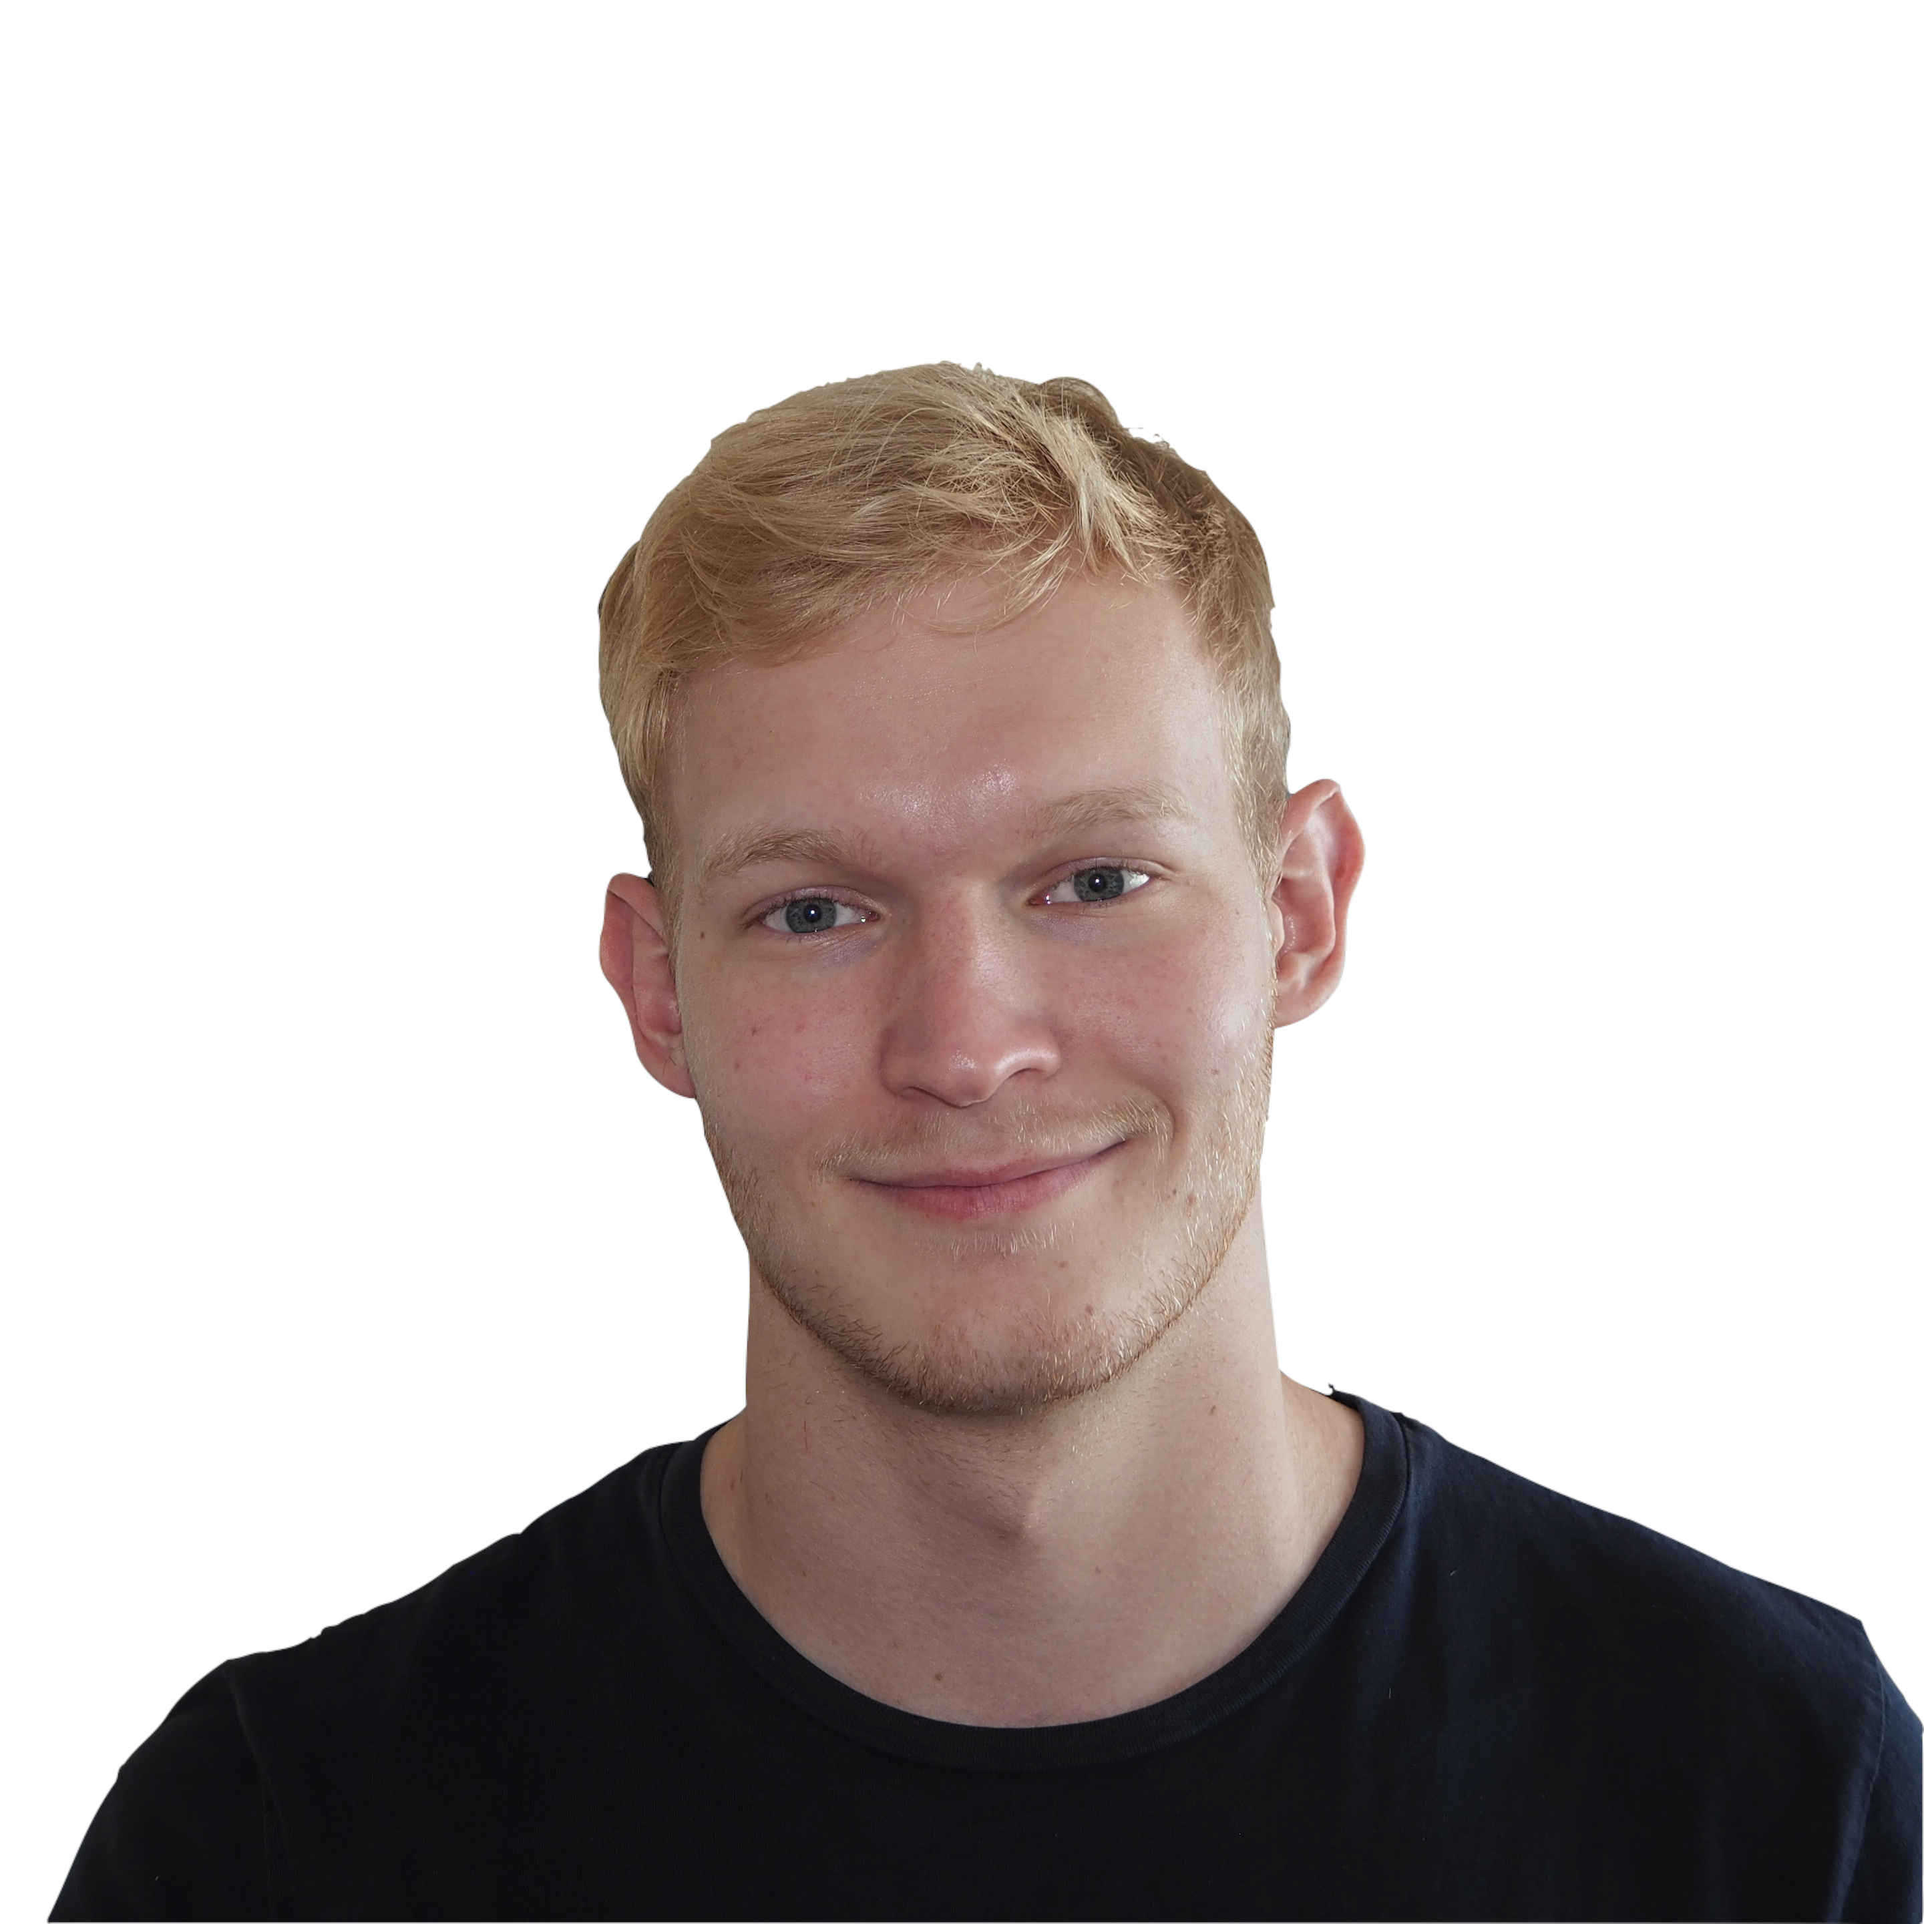
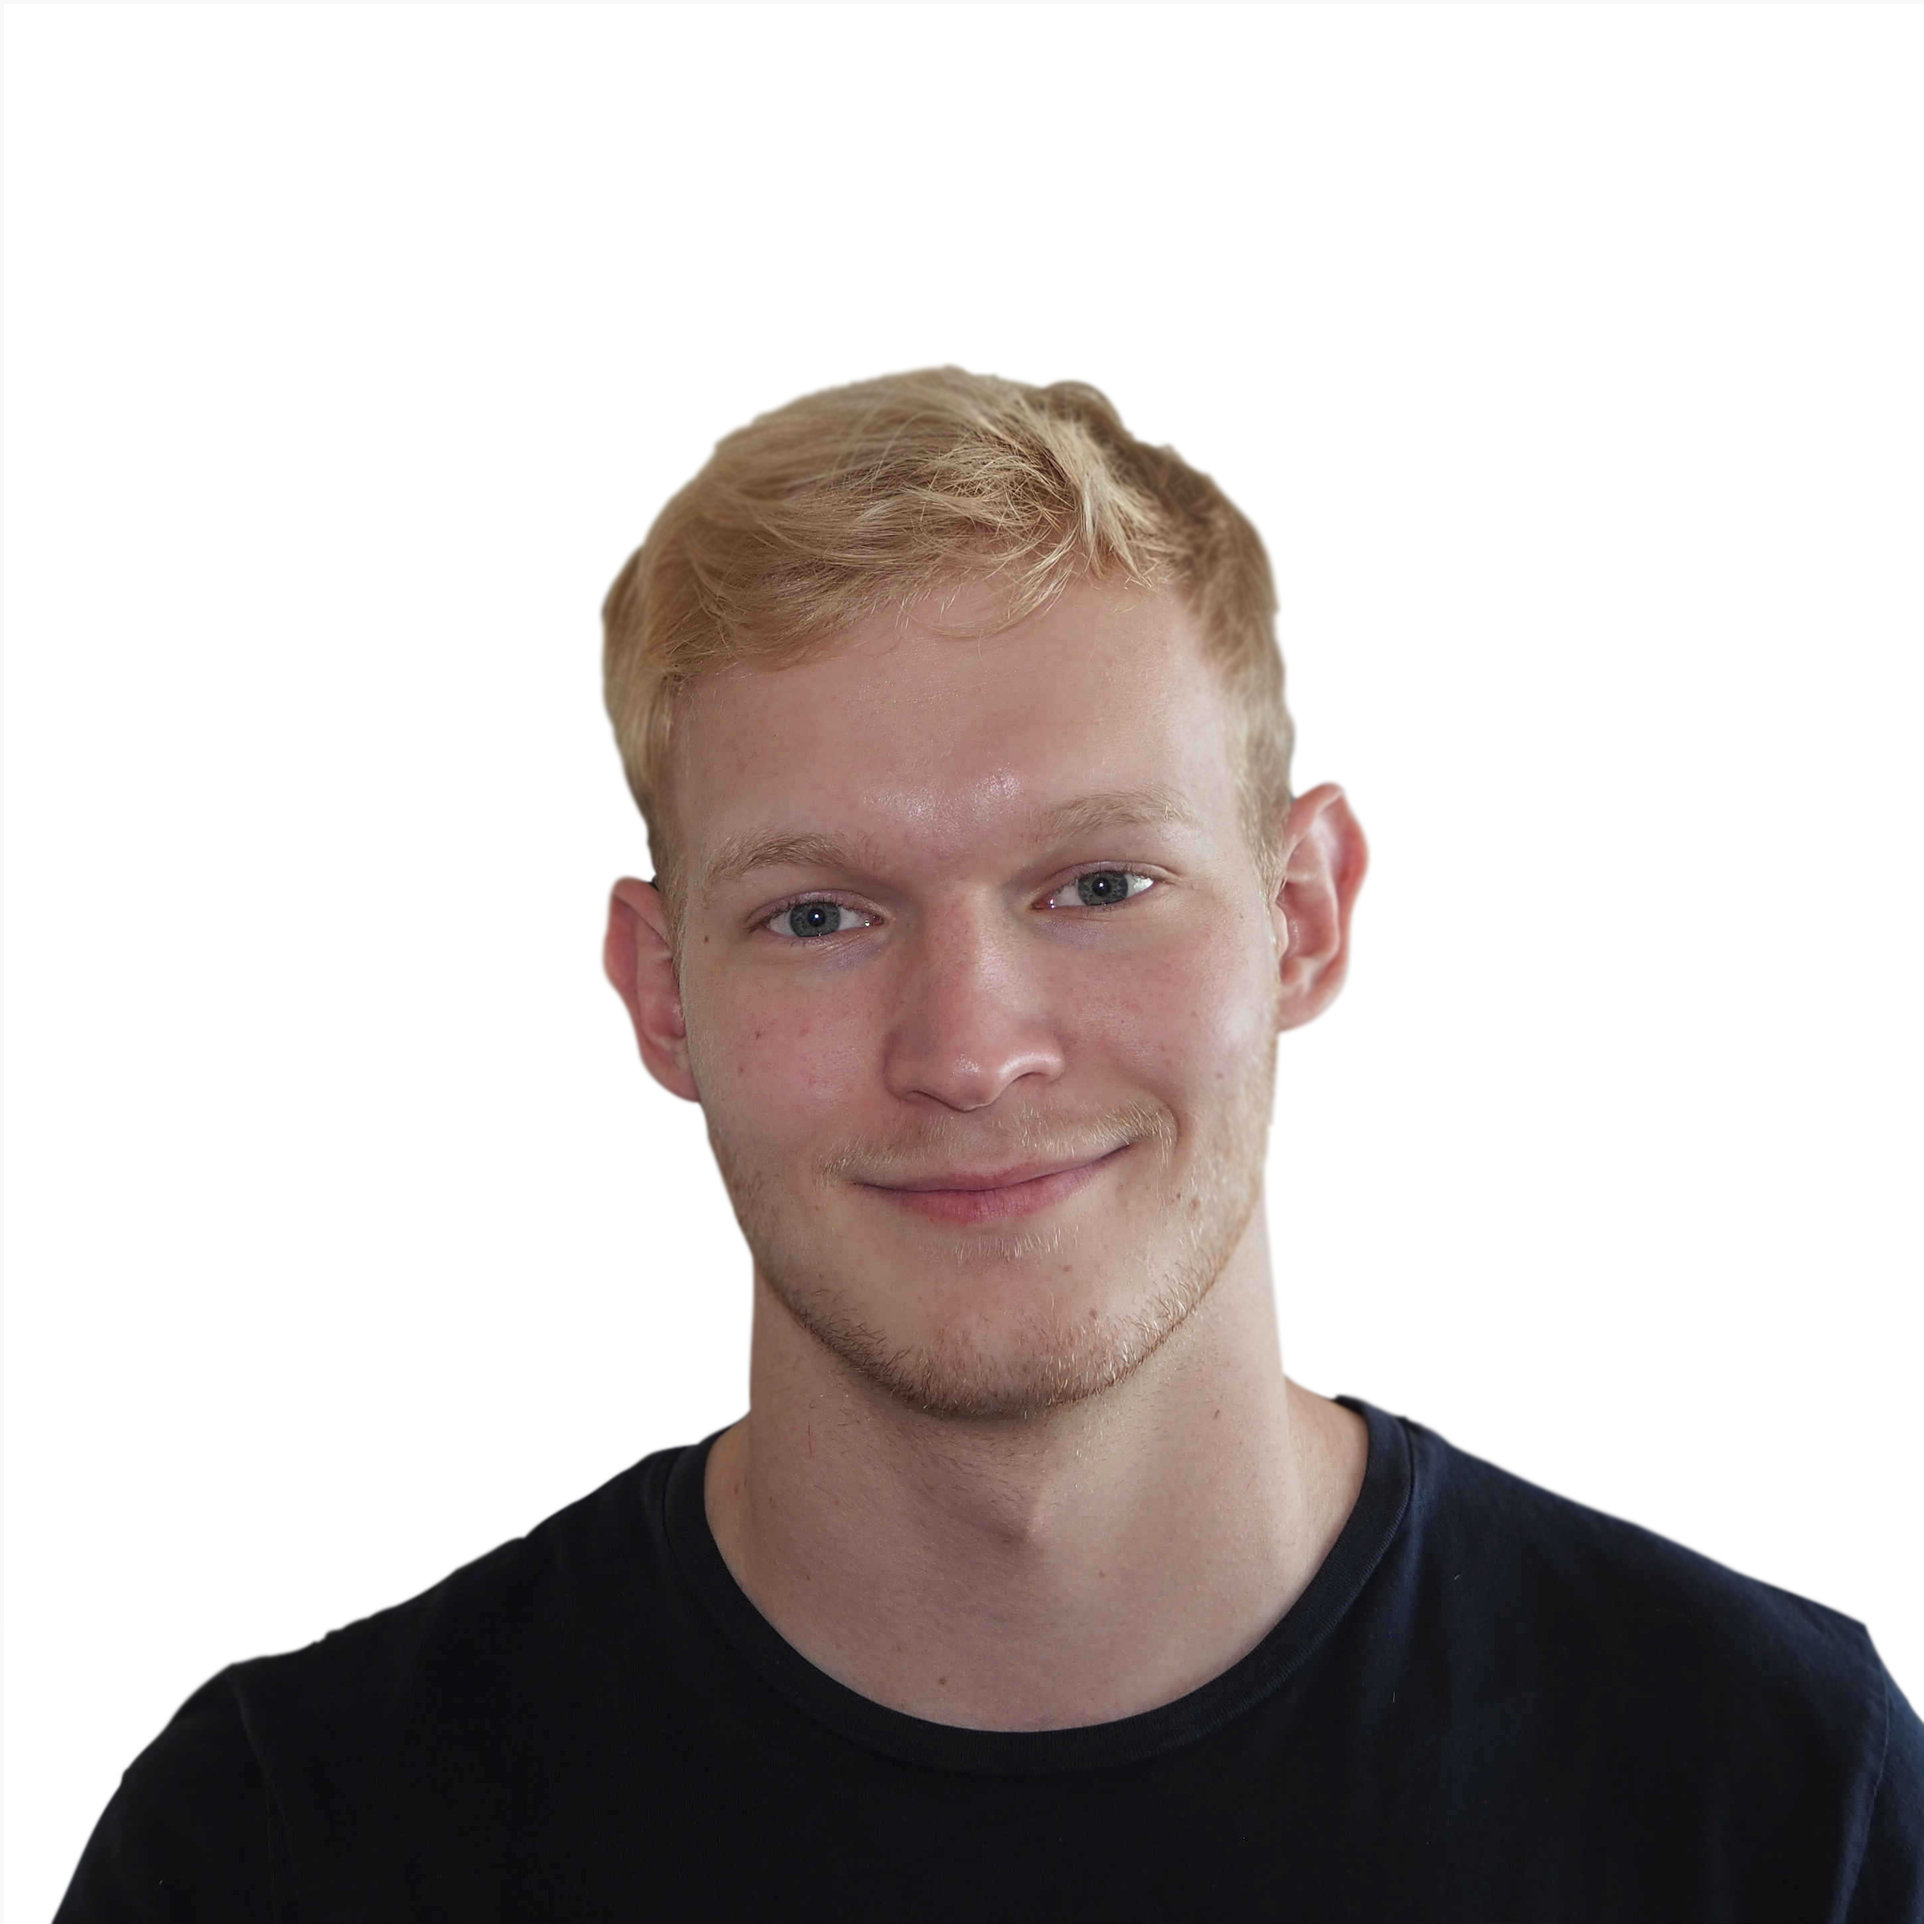
added pop to profile pic, and changed image

diff --git a/src/views/Home.vue b/src/views/Home.vue
@@ -12,8 +12,8 @@
               <v-row justify="center">
                 <v-img
                 id="profile"
-                  src="@/assets/profile-blurred-background.jpg"
-                  class="circle-img"
+                  src="@/assets/profile.jpg"
+                  class="circle-img elevation-3"
                   width="90%"
                   alt="profile"
                   margin="10px"
